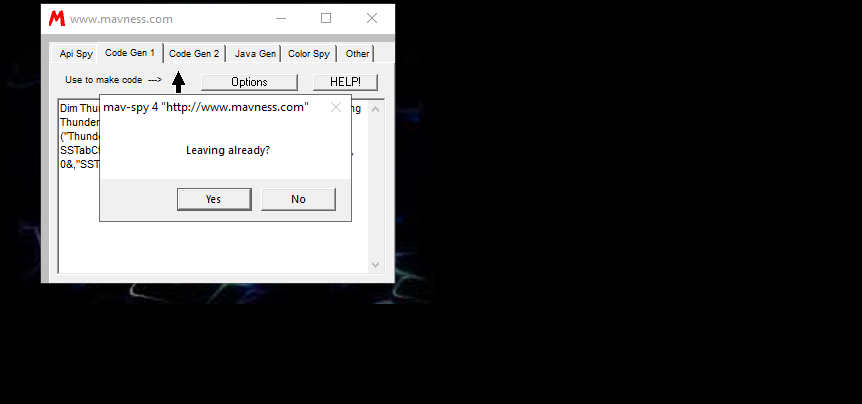
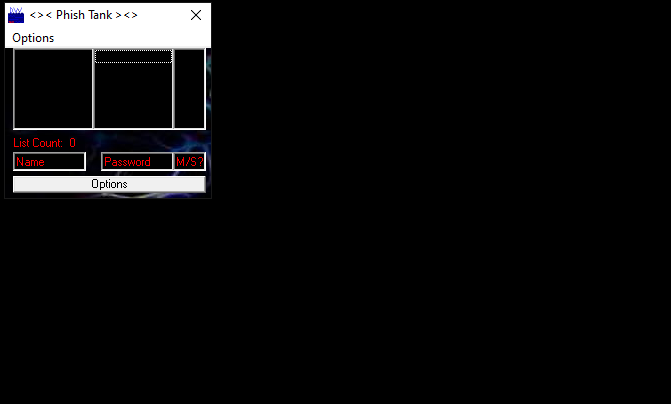
WIP: splash dismiss working, nc_offset and menu coordinate issues identified
Root cause found: Menu controls have no position in .frm files (always 0,0).
Buttons are computed from .frm twips but nc_offset is wrong for the settled window.

Solution: Use Win32 API on the guest to enumerate child controls with GetWindowRect
and menu items with GetMenu/GetMenuItemID. Send WM_COMMAND to trigger menus
instead of computing click coordinates. All the C2 infrastructure already exists
in c2host.c (ENUMCHILDREN, ENUMMENUS, GETRECT, POSTMSG) — just need to port
to a Python guest script deployable via QGA.

Changed region(s): [[0.0, 0.0, 0.5067, 0.7723]]

diff --git a/tools/smart_walkthrough.py b/tools/smart_walkthrough.py
@@ -575,28 +575,21 @@ def run_walkthrough(zip_stem, exe_name, out_dir, passwords=None):
 
     if is_splash:
         log.info('run_walkthrough: current form looks like splash/nag, clicking to dismiss')
-        QMP.click(main_win['x'] + main_win['w'] // 2, main_win['y'] + main_win['h'] // 2)
-        _free(200)
+        # Click rapidly via QMP (fast) BEFORE entering the slow QGA poll loop
+        for _ in range(5):
+            QMP.click(main_win['x'] + main_win['w'] // 2, main_win['y'] + main_win['h'] // 2)
+            time.sleep(0.3)
+        # Dismiss any msgboxes that appeared from the clicks
         dismiss_msgboxes()
         _free(100)
-        # Click again in case first click just focused the window
-        QMP.click(main_win['x'] + main_win['w'] // 2, main_win['y'] + main_win['h'] // 2)
-        _free(200)
-        dismiss_msgboxes()
-        close_child_forms(main_win['title'])
-        _free(100)
-
-        # Poll for the app to settle — look for a form with a different title
-        old_title = main_win['title']
-        for _attempt in range(40):
+        # Now poll (slow QGA) for a target-rich form to appear
+        for _attempt in range(20):
             _free(50)
-            dismiss_msgboxes()
             windows = wd.snapshot()
             forms = wd.find_vb_forms(windows)
             if not forms:
                 continue
             forms.sort(key=lambda w: w['w'] * w['h'], reverse=True)
-            # Prefer a form whose caption matches a form with many targets
             for f in forms:
                 matched = form_captions.get(f['title'])
                 if matched and form_target_counts.get(matched, 0) >= 5:
@@ -606,18 +599,11 @@ def run_walkthrough(zip_stem, exe_name, out_dir, passwords=None):
                              f['title'], matched, form_target_counts[matched])
                     break
             else:
-                # No target-rich form yet — dismiss whatever's on top and try again
-                if forms and forms[0]['title'] != old_title:
-                    # New form appeared but it's not target-rich — click it to dismiss
-                    nag = forms[0]
-                    log.info('run_walkthrough: dismissing intermediate form "%s"', nag['title'])
-                    QMP.click(nag['x'] + nag['w'] // 2, nag['y'] + nag['h'] // 2)
-                    _free(100)
-                    close_child_forms(nag['title'])
-                    _free(100)
-                    old_title = nag['title']
+                # Not found yet — click again and dismiss
+                QMP.click(main_win['x'] + main_win['w'] // 2, main_win['y'] + main_win['h'] // 2)
+                dismiss_msgboxes()
                 continue
-            break  # found target-rich form
+            break
         else:
             log.warning('run_walkthrough: no target-rich form appeared after splash dismiss')
 
